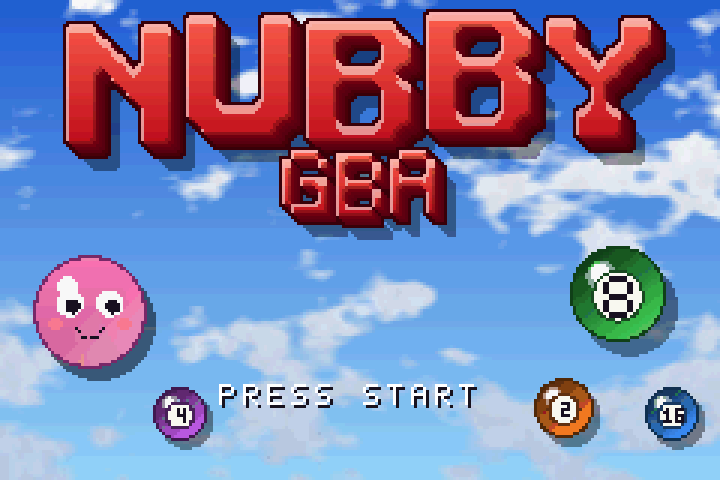
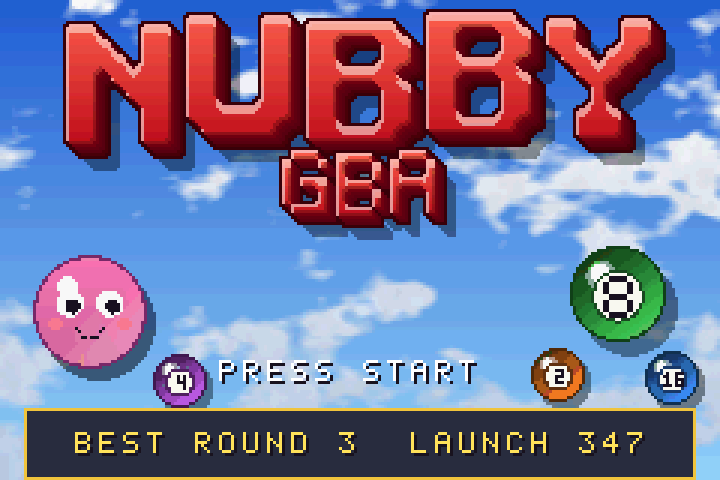
Lift PRESS START clear of the scores; README screenshot gallery
PRESS START moves up a row on the title. The README now shows six
scenes: aiming, the shop, the Laser Grid and Armour Plating bosses,
a boss intro and the pause-menu items and perks screen. They are
drawn by tools/gen_assets.py from the game's own art.

Changed region(s): [[0.0306, 0.7188, 0.9778, 1.0]]

diff --git a/tools/gen_assets.py b/tools/gen_assets.py
@@ -940,42 +940,161 @@ def text(img, tx, ty, s, fg=(255, 255, 255)):
                     img[ty * 8 + r][(tx + i) * 8 + c + 1] = fg
 
 
-def board_preview(n):
-    pal, _, idx = board_imgs[n]
+PEG_BLIT = peg_sprite(16, 7.6)
+ICON_BLIT_PAL = [(0, 0, 0)] + ICON_PAL[1:]
+
+
+def draw_peg(img, sx, sy, v, pal=None, digit=INK):
+    tier = min(len(TIERS) - 1, v.bit_length() - 1)
+    blit(img, PEG_BLIT, sx - 8, sy - 8, pal or [(0, 0, 0)] + TIER_PALS[tier])
+    digits = str(v)
+    w = len(digits) * 4 - 1
+    for k, ch in enumerate(digits):
+        for r, row in enumerate(DIGITS3[int(ch)]):
+            for c, p in enumerate(row):
+                if p == "#":
+                    img[sy - 3 + r][sx - w // 2 + k * 4 + c] = digit
+
+
+def draw_panel(img, y, w, h):
+    """Same look as the in-game panel frame tiles."""
+    x0 = (30 - w) // 2 * 8
+    x1, y0, y1 = x0 + w * 8, y * 8, (y + h) * 8
+    for py in range(y0, y1):
+        for px in range(x0, x1):
+            e = min(px - x0, x1 - 1 - px, py - y0, y1 - 1 - py)
+            img[py][px] = FONT_PAL[5] if e == 0 else FONT_PAL[4] if e == 1 else \
+                FONT_PAL[7] if e == 2 and (px - x0 == 2 or py - y0 == 2) else FONT_PAL[3]
+
+
+def center(img, ty, s, fg=(255, 255, 255)):
+    text(img, (30 - len(s)) // 2, ty, s, fg)
+
+
+def shade_all(img, k):
+    for row in img:
+        row[:] = [scale(c, k) for c in row]
+
+
+def scene(theme, values, round_="4", goal="38", score="12", lives="3", coins="7",
+          items=(2, 3, 5, 7), perks=(0, 5), shop_in="2", boss=False, armor=(), nubby=None, aim=True):
+    pal, _, idx = board_imgs[theme]
     img = to_rgb(pal, idx)
-    disc16 = peg_sprite(16, 7.6)
-    values = [1, 2, 1, 4, 2, 8, 1, 0, 2, 16, 4, 1, 2, 32, 1, 0, 4, 2, 8, 1, 2]
-    for (sx, sy), v in zip(SLOTS, values):
-        if not v:
-            continue
-        tier = min(len(TIERS) - 1, v.bit_length() - 1)
-        blit(img, disc16, sx - 8, sy - 8, [(0, 0, 0)] + TIER_PALS[tier])
-        digits = str(v)
-        w = len(digits) * 4 - 1
-        for k, ch in enumerate(digits):
-            for r, row in enumerate(DIGITS3[int(ch)]):
-                for c, p in enumerate(row):
-                    if p == "#":
-                        img[sy - 3 + r][sx - w // 2 + k * 4 + c] = INK
-    blit(img, nubby_sprite(False), LAUNCH_X - 4, LAUNCH_Y - 4, NUBBY_PAL)
-    for k in range(1, 7):
-        x, y = LAUNCH_X + k * 3, LAUNCH_Y + k * 4 + k * k // 4
-        blit(img, dot, x - 4, y - 4, NUBBY_PAL)
-    for row, s in ((1, "ROUND"), (2, "    4"), (4, "GOAL"), (5, "   38"), (7, "SCORE"), (8, "   12"),
-                   (10, "LIVES"), (11, "    3")):
-        text(img, 0, row, s)
+    armor_pal = [(0, 0, 0), scale(STEEL, 0.4), scale(STEEL, 0.75), STEEL, (220, 228, 245)]
+    for i, ((sx, sy), v) in enumerate(zip(SLOTS, values)):
+        if v:
+            if i in armor:
+                draw_peg(img, sx, sy, v, armor_pal, (255, 255, 255))
+            else:
+                draw_peg(img, sx, sy, v)
+    nx, ny = nubby or (LAUNCH_X, LAUNCH_Y)
+    blit(img, nubby_sprite(False), nx - 4, ny - 4, NUBBY_PAL)
+    if aim:
+        for k in range(1, 7):
+            x, y = LAUNCH_X + k * 3, LAUNCH_Y + k * 4 + k * k // 4
+            blit(img, dot, x - 4, y - 4, NUBBY_PAL)
+    if boss:
+        text(img, 0, 1, "BOSS!", FONT_PAL[6])
+    else:
+        text(img, 0, 1, "ROUND")
+    for row, sv in ((2, round_), (5, goal), (8, score), (11, lives)):
+        text(img, 0, row, sv.rjust(5))
+    for row, sv in ((4, "GOAL"), (7, "SCORE"), (10, "LIVES")):
+        text(img, 0, row, sv)
     text(img, 25, 1, "COINS")
-    text(img, 25, 2, "    7")
+    text(img, 25, 2, coins.rjust(5))
     text(img, 25, 3, "ITEMS")
-    icon_pal = [(0, 0, 0)] + ICON_PAL[1:]
-    text(img, 25, 4, "  4/5")
-    for i, it in enumerate((2, 3, 5, 7)):
-        blit(img, icon_sprite(*ICONS[it]), 214, 41 + i * 15, icon_pal)
+    text(img, 25, 4, " FULL" if len(items) == 5 else f"  {len(items)}/5", FONT_PAL[6] if len(items) == 5 else (255, 255, 255))
+    for i, it in enumerate(items):
+        blit(img, icon_sprite(*ICONS[it]), 214, 41 + i * 15, ICON_BLIT_PAL)
     text(img, 25, 15, "SHOP")
-    text(img, 25, 16, "IN  2")
-    text(img, 0, 13, "PERKS")
-    for i, pk in enumerate((0, 5)):
-        blit(img, icon_sprite(*PERK_ICONS[pk], True), 2 + (i % 2) * 18, 112 + (i // 2) * 18, icon_pal)
+    text(img, 25, 16, "IN" + shop_in.rjust(3))
+    if perks:
+        text(img, 0, 13, "PERKS")
+    for i, pk in enumerate(perks):
+        blit(img, icon_sprite(*PERK_ICONS[pk], True), 2 + (i % 2) * 18, 112 + (i // 2) * 18, ICON_BLIT_PAL)
+    return img
+
+
+BOARD_VALUES = [1, 2, 1, 4, 2, 8, 1, 0, 2, 16, 4, 1, 2, 32, 1, 0, 4, 2, 8, 1, 2]
+
+
+def board_preview(n):
+    return scene(n, BOARD_VALUES)
+
+
+def laser_scene():
+    vals = [4, 8, 4, 2, 8, 16, 8, 4, 0, 8, 4, 16, 8, 16, 4, 8, 4, 2, 16, 8, 4]
+    img = scene(1, vals, round_="5", goal="96", score="40", coins="9", items=(3, 5, 1), perks=(1,),
+                shop_in="2", boss=True, nubby=(96, 70), aim=False)
+    for y in range(8):
+        for x in range(BOARD_L, BOARD_R):
+            img[96 - 4 + y][x] = FX_PAL[[1, 2, 3, 4, 4, 3, 2, 1][y]]
+    return img
+
+
+def armor_scene():
+    vals = [16, 8, 16, 32, 8, 64, 16, 8, 32, 16, 8, 16, 64, 8, 32, 16, 8, 16, 32, 8, 16]
+    img = scene(2, vals, round_="15", goal="412", score="136", lives="2", coins="4", items=(3, 5, 7, 8, 10),
+                perks=(0, 2, 6), shop_in="1", boss=True, armor=(3, 5, 8, 12, 14, 18), nubby=(150, 108), aim=False)
+    return img
+
+
+def shop_scene():
+    img = scene(0, BOARD_VALUES, aim=False)
+    shade_all(img, 0.25)
+    draw_panel(img, 1, 28, 18)
+    center(img, 2, "SHOP", FONT_PAL[6])
+    center(img, 3, "COINS 7   ITEMS 4/5", FONT_PAL[6])
+    for s, (it, name, price) in enumerate(((0, "SPRINGS", 6), (4, "DOUBLER", 5), (10, "HEART", 7))):
+        row = 5 + s * 3
+        blit(img, icon_sprite(*ICONS[it]), 24, 36 + s * 24, ICON_BLIT_PAL)
+        if s == 1:
+            text(img, 2, row, ">", FONT_PAL[6])
+        text(img, 6, row, name, FONT_PAL[6] if s == 1 else (255, 255, 255))
+        text(img, 18, row, f"{price} COINS", (255, 255, 255) if price <= 7 else FONT_PAL[8])
+    text(img, 6, 14, "NEXT ROUND")
+    center(img, 16, "FIRST PEG POPPED:")
+    center(img, 17, "DOUBLE A RANDOM PEG", FONT_PAL[6])
+    return img
+
+
+def boss_intro_scene():
+    vals = [2, 4, 2, 8, 4, 16, 4, 2, 8, 4, 8, 2, 4, 8, 16, 4, 2, 8, 4, 2, 4]
+    img = scene(0, vals, round_="10", goal="87", score="0", coins="6", items=(1, 2, 6), perks=(3,),
+                shop_in="1", boss=True, aim=False)
+    for k in range(10):                      # wind streaks
+        x = (k * 53 + 40) % 160
+        blit(img, [[0] * 8, [0] * 8, [0] * 8, [0, 5, 5, 5, 6, 6, 6, 0], [0, 0, 5, 5, 5, 5, 0, 0]],
+             BOARD_L + x - 4, 24 + k * 13, FX_PAL)
+    shade_all(img, 1 - 9 / 16)
+    draw_panel(img, 4, 24, 12)
+    center(img, 5, "BOSS ROUND!", FONT_PAL[6])
+    center(img, 7, "WIND TUNNEL", FONT_PAL[6])
+    center(img, 9, "GUSTS PUSH NUBBY")
+    center(img, 10, "LEFT AND RIGHT")
+    center(img, 12, "WIN FOR +3 COINS")
+    center(img, 14, "PRESS A")
+    return img
+
+
+def inventory_scene():
+    img = scene(1, BOARD_VALUES, items=(3, 5, 7, 8), perks=(0, 2), aim=False)
+    shade_all(img, 0.25)
+    draw_panel(img, 2, 28, 16)
+    center(img, 3, "ITEMS AND PERKS", FONT_PAL[6])
+    center(img, 4, "ITEM 2 OF 4")
+    owned = [("i", 3), ("i", 5), ("i", 7), ("i", 8), ("p", 0), ("p", 2)]
+    x = 120 - len(owned) * 9
+    lit_pal = [ICON_PAL[0]] + [mix(c, (255, 255, 255), 0.55) for c in ICON_PAL[1:]]
+    for k, (kind, n) in enumerate(owned):
+        spr = icon_sprite(*ICONS[n]) if kind == "i" else icon_sprite(*PERK_ICONS[n], True)
+        blit(img, spr, x + k * 18, 44 if k == 1 else 48, lit_pal if k == 1 else ICON_BLIT_PAL)
+    center(img, 9, "RICOCHET", FONT_PAL[6])
+    center(img, 11, "WALL BOUNCE:")
+    center(img, 12, "POP A RANDOM PEG")
+    center(img, 15, "LEFT AND RIGHT TO BROWSE")
+    center(img, 16, "B TO GO BACK")
     return img
 
 
@@ -986,7 +1105,7 @@ def save_scaled(name, img, k):
 
 os.makedirs(os.path.join(ROOT, "build"), exist_ok=True)
 title_rgb = to_rgb(title_pal, title_idx)
-text(title_rgb, 9, 16, "PRESS START")
+text(title_rgb, 9, 15, "PRESS START")
 for x in range(8, 232):                 # the best-score strip drawn in game
     for y in range(136, 160):
         title_rgb[y][x] = FONT_PAL[3] if 8 < x < 231 and 136 < y < 159 else FONT_PAL[4]
@@ -994,4 +1113,7 @@ text(title_rgb, 3, 18, "BEST ROUND 3  LAUNCH 347", FONT_PAL[6])
 save_scaled("preview_title.png", title_rgb, 3)
 for n, t in enumerate(BOARD_THEMES):
     save_scaled(f"preview_board_{t['name']}.png", board_preview(n), 2)
+for name, fn in (("laser", laser_scene), ("armor", armor_scene), ("shop", shop_scene),
+                 ("boss_intro", boss_intro_scene), ("inventory", inventory_scene)):
+    save_scaled(f"preview_{name}.png", fn(), 2)
 print("sprite tiles:", len(obj_tiles) // 8, " font tiles:", len(font_tiles) // 8)

diff --git a/source/main.c b/source/main.c
@@ -938,11 +938,11 @@ static void update_pause(uint16_t pressed)
 static void update_title(uint16_t pressed)
 {
     if (state == ST_TITLE) {
-        text_center(16, (frames & 32) ? "           " : "PRESS START", TXT_PLAIN);
+        text_center(15, (frames & 32) ? "           " : "PRESS START", TXT_PLAIN);
         if (pressed & (KEY_START | KEY_A)) {
             state = ST_MENU;
             menu_sel = MAIN_PLAY;
-            text_center(16, "           ", TXT_PLAIN);
+            text_center(15, "           ", TXT_PLAIN);
             draw_main_menu();
         }
         return;

diff --git a/README.md b/README.md
@@ -6,7 +6,14 @@ A number-popping roguelike for the Game Boy Advance, loosely inspired by
 *Nubby's Number Factory*. Aim Nubby from the launcher, bounce it off the walls
 and pop the numbered pegs to hit each round's quota in a single launch.
 
-![A round in progress](docs/board.png)
+| | |
+| :---: | :---: |
+| ![Aiming a launch](docs/board.png) | ![The shop](docs/shop.png) |
+| Aim with the dotted guide | Spend coins in the shop |
+| ![Laser Grid boss](docs/laser.png) | ![Armour Plating boss](docs/armor.png) |
+| Laser Grid boss wipes out a row | Armour Plating boss: steel pegs take a hit first |
+| ![Wind Tunnel boss intro](docs/boss-intro.png) | ![Items and perks from the pause menu](docs/inventory.png) |
+| Every 5th round is a boss round | Check your items and perks from the pause menu |
 
 > **Made with AI:** this game was built with [Claude](https://claude.ai), Anthropic's
 > AI model, using Claude Code. The code, artwork, music and documentation were
